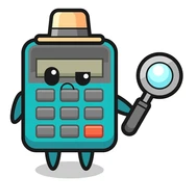
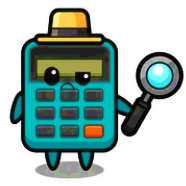
agregue iconos faltantes

diff --git a/guias/manualusuario.py b/guias/manualusuario.py
@@ -1,12 +1,27 @@
 import wx
 import wx.lib.dialogs 
 from wx.lib.wordwrap import wordwrap
+import os
 
 def abrir_manual(parent_window):
     """
     Muestra el texto largo de la guía en una ventana compacta
     con barra de desplazamiento vertical.
     """
+    bitmapDir = os.path.dirname(os.path.abspath(__file__))
+    # Cambia "mi_logo.ico" o "mi_logo.png" por el nombre real de tu archivo
+    ruta_icono = os.path.join(
+            bitmapDir,
+            "imagenes",
+            "manual.png")
+        
+    if os.path.exists(ruta_icono):
+            # Creamos el objeto Icon. Si usa un PNG, cambia wx.BITMAP_TYPE_ICO por wx.BITMAP_TYPE_PNG
+            icono = wx.Icon(ruta_icono, wx.BITMAP_TYPE_PNG)
+            parent_window.SetIcon(icono)
+    else:
+            print(f"No se encontró el archivo de icono en {ruta_icono}")
+
     texto_guia = (
         " GUÍA DE CÁLCULO MANUAL - PREPARACIÓN DE EXAMEN\n"
         " ===================================================\n"

diff --git a/main.py b/main.py
@@ -32,17 +32,15 @@ class MiVentana(wx.Frame):
             "mi_logo.png")
         
         if os.path.exists(ruta_icono):
-            # Creamos el objeto Icon. Si usas un PNG, cambia wx.BITMAP_TYPE_ICO por wx.BITMAP_TYPE_PNG
+            # Creamos el objeto Icon. Si usa un PNG, cambia wx.BITMAP_TYPE_ICO por wx.BITMAP_TYPE_PNG
             icono = wx.Icon(ruta_icono, wx.BITMAP_TYPE_PNG)
             self.SetIcon(icono)
         else:
-            print(f"Advertencia: No se encontró el archivo de icono en {ruta_icono}")
+            print(f"No se encontró el archivo de icono en {ruta_icono}")
 
-        # --------------------
         # --------------------
         # Pantalla de Bienvenida (AdvancedSplash)
         # --------------------
-        # Asumiendo que la imagen está en la misma carpeta que este script:
         bitmapDir = os.path.dirname(os.path.abspath(__file__))
         pn = os.path.normpath(os.path.join(
             bitmapDir,
@@ -53,8 +51,8 @@ class MiVentana(wx.Frame):
             bitmap = wx.Bitmap(pn, wx.BITMAP_TYPE_PNG)
             shadow = wx.WHITE
 
-            # Creamos el Splash Screen. Se cerrará solo en 5000ms (5 segundos)
-            # Usamos None en lugar de self porque la ventana principal aún se está construyendo
+        # Creamos el Splash Screen. Se cerrará en 3000ms (3 segundos)
+        # Usamos None en lugar de self porque la ventana principal aún se está construyendo
             self.splash = AS.AdvancedSplash(None, bitmap=bitmap, timeout=3000,
                                             agwStyle=AS.AS_TIMEOUT |
                                                      AS.AS_CENTER_ON_SCREEN |